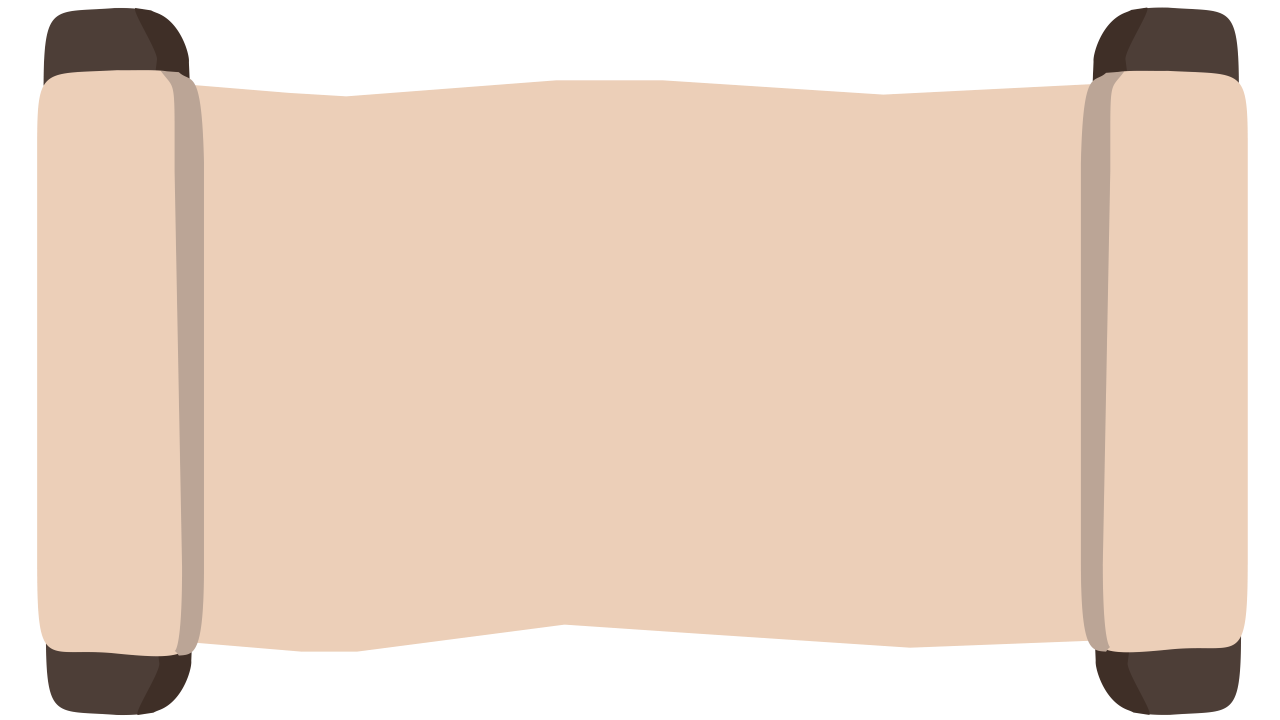
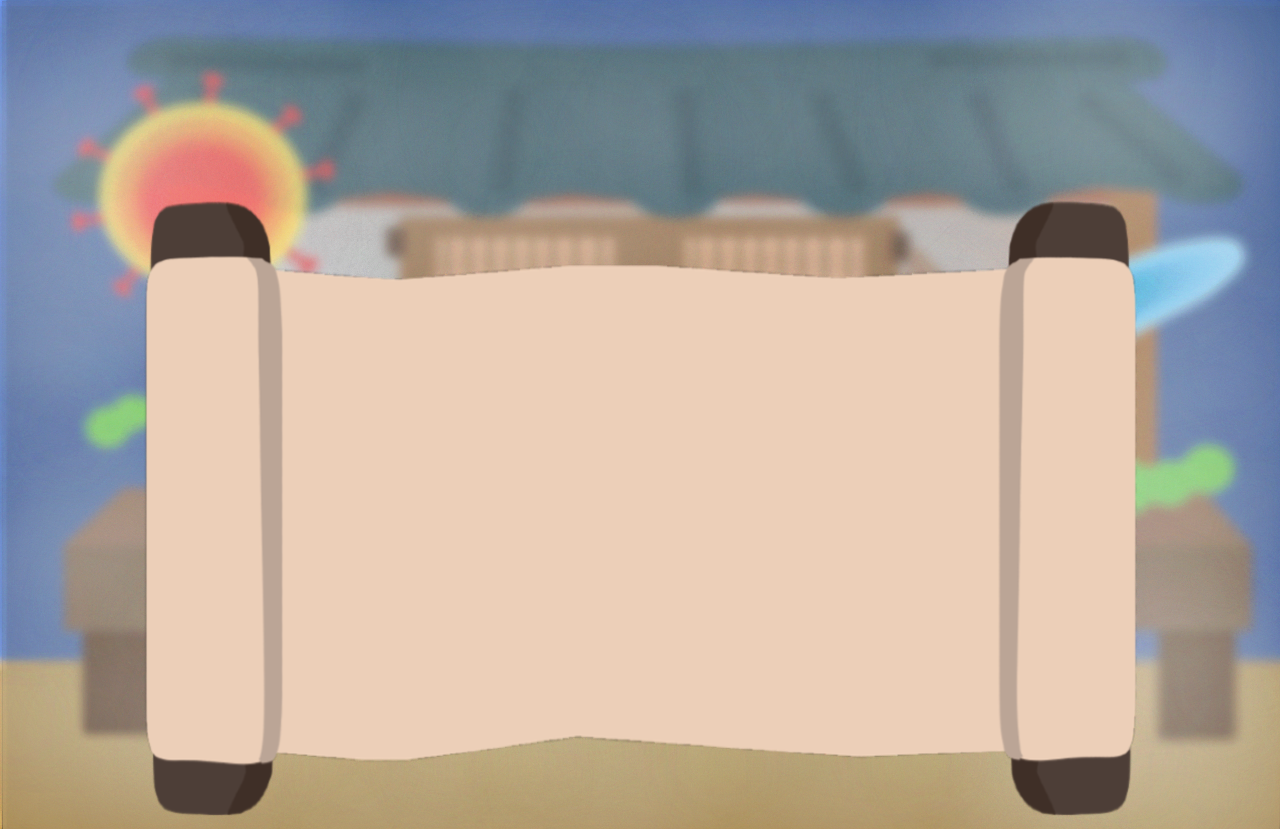
1107 commit

diff --git a/virus_description.html b/virus_description.html
@@ -3,28 +3,67 @@
         <meta charset="UTF-8">
         <title>바이러스 설명</title>
         <link rel="stylesheet" type="text/css" href="css/virus_description.css">
+        <script type="text/javascript" src="js/virus_description.js"></script>
+        <script src="https://ajax.googleapis.com/ajax/libs/jquery/3.5.1/jquery.min.js"></script>
+        </head>
         <body>
             <div class="wrap">
-                <div class="container">
                     <div class="container_box">
                         <div id="List">
                             <ul><font color="#331a00">
-                                <li><a href="#">코로나 바이러스</a></li>
-                                <li><a href="#">메르스</a></li>
-                                <li><a href="#">신종플루</a></li>
-                                <li><a href="#">사스</a></li>
-                                <li><a href="#">페스트</a></li>
-                                <li><a href="#">니파뇌염</a></li>
-                                <li><a href="#">에이즈</a></li>
-                                <li><a href="#">헨드라 바이러스</a></li>
-                                <li><a href="#">지카 바이러스</a></li>
-                                <li><a href="#">에볼라 바이러스  </a></li>
-                                <li><a href="#">중증열성혈소판감소증후군</a></li>
-                            </font></ul></div>_
-                        <img src="image/screen/menu.png" style="width: 800px; height: 400px;">
+                                <li id="COVID-19"><a href="#">코로나19 바이러스</a></li>
+                                <li id="Mers"><a href="#">메르스</a></li>
+                                <li id="Influenza"><a href="#">신종플루</a></li>
+                                <li id="Sars"><a href="#">사스</a></li>
+                                <li id="Pest" ><a href="#">페스트</a></li>
+                                <li id="Nipha"><a href="#">니파뇌염</a></li>
+                                <li id="Aids"><a href="#">에이즈</a></li>
+                                <li id="Hendra"><a href="#">헨드라 바이러스</a></li>
+                                <li id="Zika"><a href="#">지카 바이러스</a></li>
+                                <li id="Ebola"><a href="#">에볼라 바이러스  </a></li>
+                                <li id="SFTS"><a href="#">중증열성혈소판감소증후군</a></li>
+                            </font></ul></div>
+                            <div class="virus_index">
+                        <p class="COVID_index"> 
+                            알려진 바로는 비말, 접촉을 통한 전파로 알려진 바이러스
+                            박쥐에서 기생하던 코로나 바이러스가 다른 동물을 중간 숙주로 거치는 과정에서
+                            변이를 통해 사람에게 전파된 것으로 추정되고 있다
+                            주로 발열, 기침, 호흡곤란 등의 증상 동반 심하면 호흡 부전, 폐렴 등으로 사망으로 이를 수 있다.
+                        </p>
+                        <p class="Mers_index" style="display:none"> 
+                            @
+                        </p>
+                        <p class="Influenza_index" style="display:none"> 
+                            #
+                        </p>
+                        <p class="Sars_index" style="display:none"> 
+                            $
+                        </p>
+                        <p class="Pest_index" style="display:none"> 
+                            %
+                        </p>
+                        <p class="Nipha_index" style="display:none"> 
+                            ^
+                        </p>
+                        <p class="Aids_index" style="display:none"> 
+                            &
+                        </p>
+                        <p class="Hendra_index" style="display:none"> 
+                            ~
+                        </p>
+                        <p class="Zika_index" style="display:none"> 
+                            !
+                        </p>
+                        <p class="Ebola_index" style="display:none"> 
+                            *
+                        </p>
+                        <p class="SFTS_index" style="display:none"> 
+                            +
+                        </p>
                     </div>
+                    <img src="image/screen/virus_menu.png" style="width: 860px; height: 380px;">
+                    <!-- <img src="image/screen/menu.png" style="width: 860px; height: 480px;"> -->
                 </div>
             </div>
         </body>
-    </head>
 </html>

diff --git a/css/virus_description.css b/css/virus_description.css
@@ -1,12 +1,13 @@
 @charset "utf-8";
-@import url('https://fonts.googleapis.com/css2?family=Open+Sans&display=swap');
+@import url('https://fonts.googleapis.com/css2?family=Nanum+Gothic+Coding&display=swap');
 /* 기본값 세팅 */
 * { 
   margin:0; padding:0; 
 }
+
 body
     {
-        font: 17px, 'Open Sans',sans-serif;
+        font-family: 'Nanum Gothic Coding', monospace;
         font-weight: bold;
         position: absolute; left: 50%; top: 50%; 
         transform: translate(-50%, -50%); text-align: center;
@@ -19,17 +20,24 @@ body
         max-width: 100%;
         margin:0 auto;
     }
-
-.container {
-        width: 100%;
-        height: 100%;
-    }
 .container_box{
         width: 960px;
         height: 480px;
         margin:0 auto;
-        /* background: red; */
+        background-color: darkgray;
         display: inline-block;
+    }
+    .virus_index{
+        font-family: 'Nanum Gothic Coding', monospace;
+        font-size: 14pt;
+        font-style: unset;
+        line-height: 1.6em;
+        text-align: center;
+
+        position: absolute;
+        top: 50%;
+        left: 50%;
+        transform: translate( -50%, -50% );
     }
 
 a{
@@ -58,6 +66,7 @@ li{
 }
 
 #List ul li{
+    font-family: 'Nanum Gothic Coding', monospace;
     float: left;
     width: 15%;
     height: 100%;
@@ -74,4 +83,11 @@ li{
     background: #cc9966;
     border-radius: 20px;
     color: #fff;
+}
+.image_blur{
+    -webkit-filter: blur(5px); 
+    -moz-filter: blur(5px); 
+    -o-filter: blur(5px); 
+    -ms-filter: blur(5px); 
+    filter: blur(5px);
 }

diff --git a/js/virus_description.js b/js/virus_description.js
@@ -1,0 +1,48 @@
+window.onload = function(){
+$(document).ready(function(){
+    $("#COVID-19").click(function(){
+        $("p.COVID_index").slideDown();
+        $("p").not("p.COVID_index").hide();
+    });
+    $("#Mers").click(function(){
+        $("p.Mers_index").slideDown();
+        $("p").not("p.Mers_index").hide();
+    });
+    $("#Influenza").click(function(){
+        $("p.Influenza_index").slideDown();
+        $("p").not("p.Influenza_index").hide();
+    });
+    $("#Sars").click(function(){
+        $("p.Sars_index").slideDown();
+        $("p").not("p.Sars_index").hide();
+    });
+    $("#Pest").click(function(){
+        $("p.Pest_index").slideDown();
+        $("p").not("p.Pest_index").hide();
+    });
+    $("#Nipha").click(function(){
+        $("p.Nipha_index").slideDown();
+        $("p").not("p.Nipha_index").hide();
+    });
+    $("#Aids").click(function(){
+        $("p.Aids_index").slideDown();
+        $("p").not("p.Aids_index").hide();
+    });
+    $("#Hendra").click(function(){
+        $("p.Hendra_index").slideDown();
+        $("p").not("p.Hendra_index").hide();
+    });
+    $("#Zika").click(function(){
+        $("p.Zika_index").slideDown();
+        $("p").not("p.Zika_index").hide();
+    });
+    $("#Ebola").click(function(){
+        $("p.Ebola_index").slideDown();
+        $("p").not("p.Ebola_index").hide();
+    });
+    $("#SFTS").click(function(){
+        $("p.SFTS_index").slideDown();
+        $("p").not("p.SFTS_index").hide();
+    });
+});
+}

diff --git a/start.html b/start.html
@@ -7,17 +7,17 @@
             <div class="wrap">
                 <div class="container">
                     <div class="container_box">
-                        <img src="image/screen/main_nobt.png" style="width: 960px; height: 480px;">
                         <a href="game_how.html" class="import_button">
-                            <img src="image/icon/game_report.png" width="220" height="100">
+                            <img src="image/icon/game_report.png" width="220" height="195">
                         </a>
                         <a href="story.html" class="start_button">
-                            <img src="image/icon/game_start.png" width="220" height="65">
+                            <img src="image/icon/game_start.png" width="230" height="185">
                         </a>
                         <a href="virus_description.html" class="virus_button">
-                            <img src="image/icon/virus_import.png" width="220" height="65">
+                            <img src="image/icon/virus_import.png" width="230" height="185">
                         </a>
                     </div>
+                    <img src="image/screen/main_notBtn.png" style="width: 960px; height: 480px;">
                 </div>
             </div>
         </body>

diff --git a/css/start.css b/css/start.css
@@ -21,33 +21,30 @@ body
     }
 .container_box
     {
+        position: absolute;
         width: 960px;
         height: 480px;
         margin:0 auto;
-        background-image: url("image/screen/main_nobt"); 
-        display: inline-block;
+        display: inline-block; 
     }
 .import_button{
-    display: scroll;
     position: fixed;
-    top:320;
+    top:300;
     left: 110;
     border: none;
     background-color: hsla(0, 0%, 0%, 0.0);
 }
 .start_button{
-    display: scroll;
     position: fixed;
-    top:300;
+    top:260;
     left: 640;
     border: none;
     background-color: hsla(0, 0%, 0%, 0.0);
 }
 .virus_button{
-    display: scroll;
     position: fixed;
-    top:367;
-    left:640;
+    top:317;
+    left:638;
     border: none;
     background-color: hsla(0, 0%, 0%, 0.0);
 }
